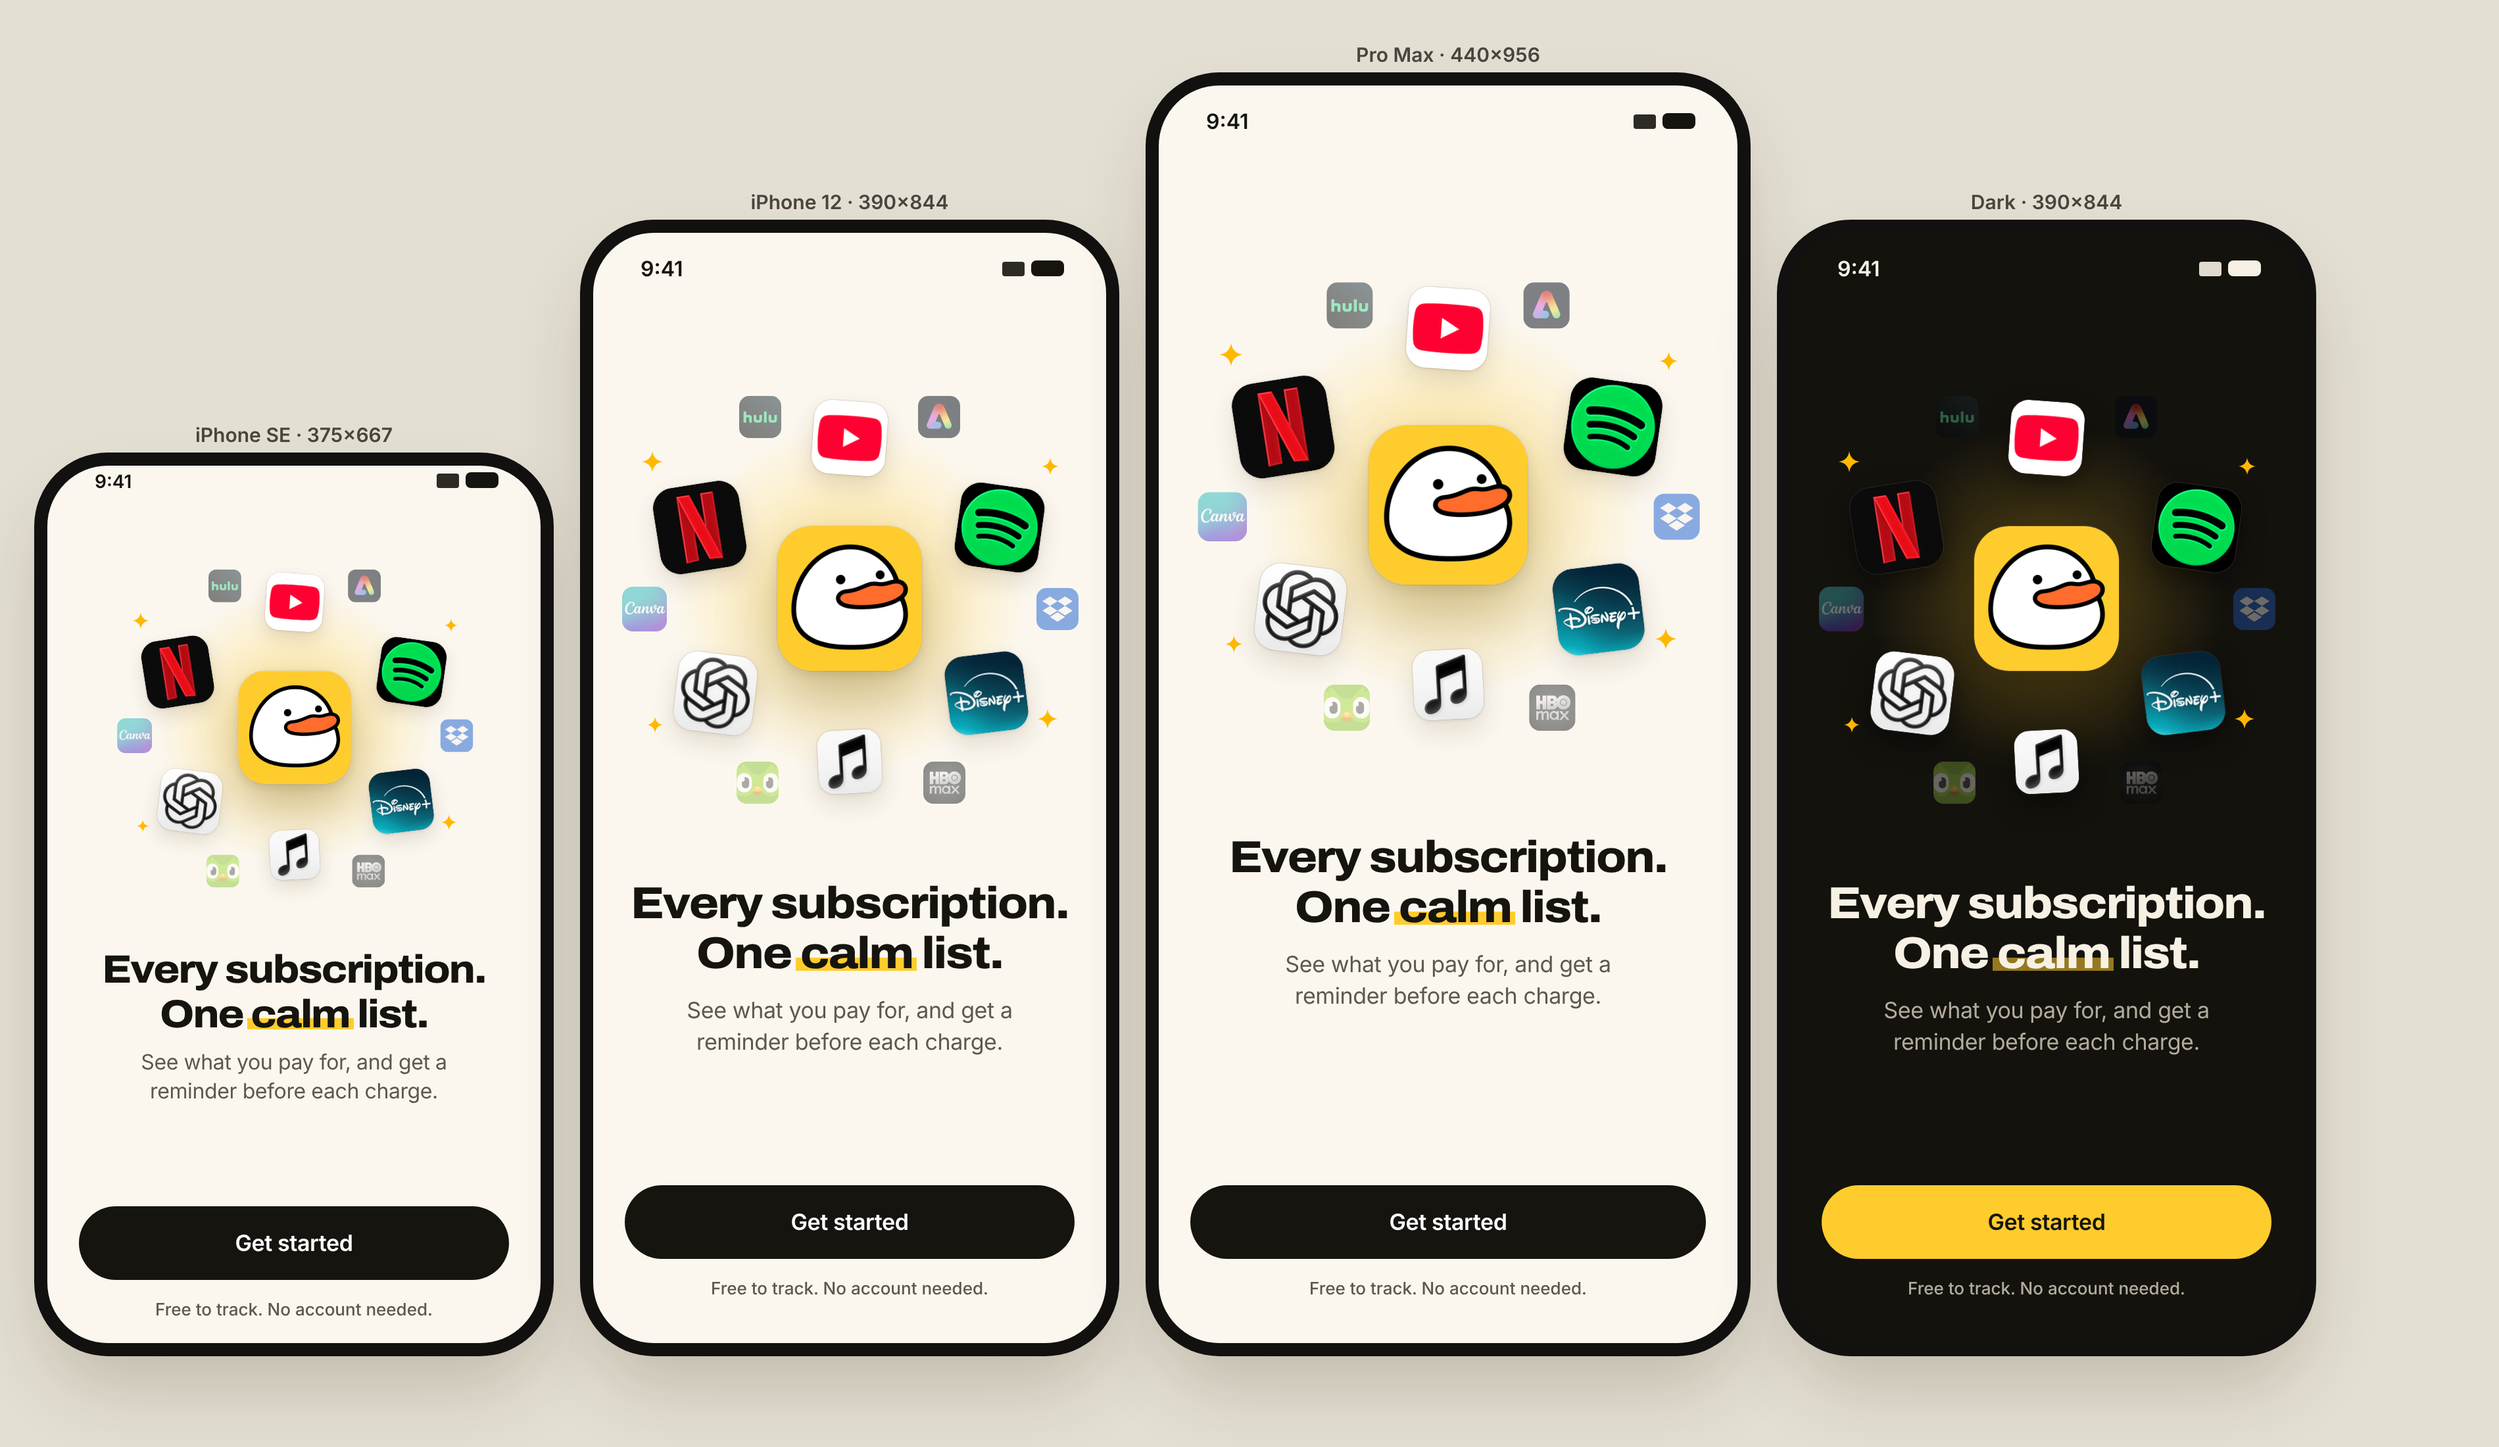
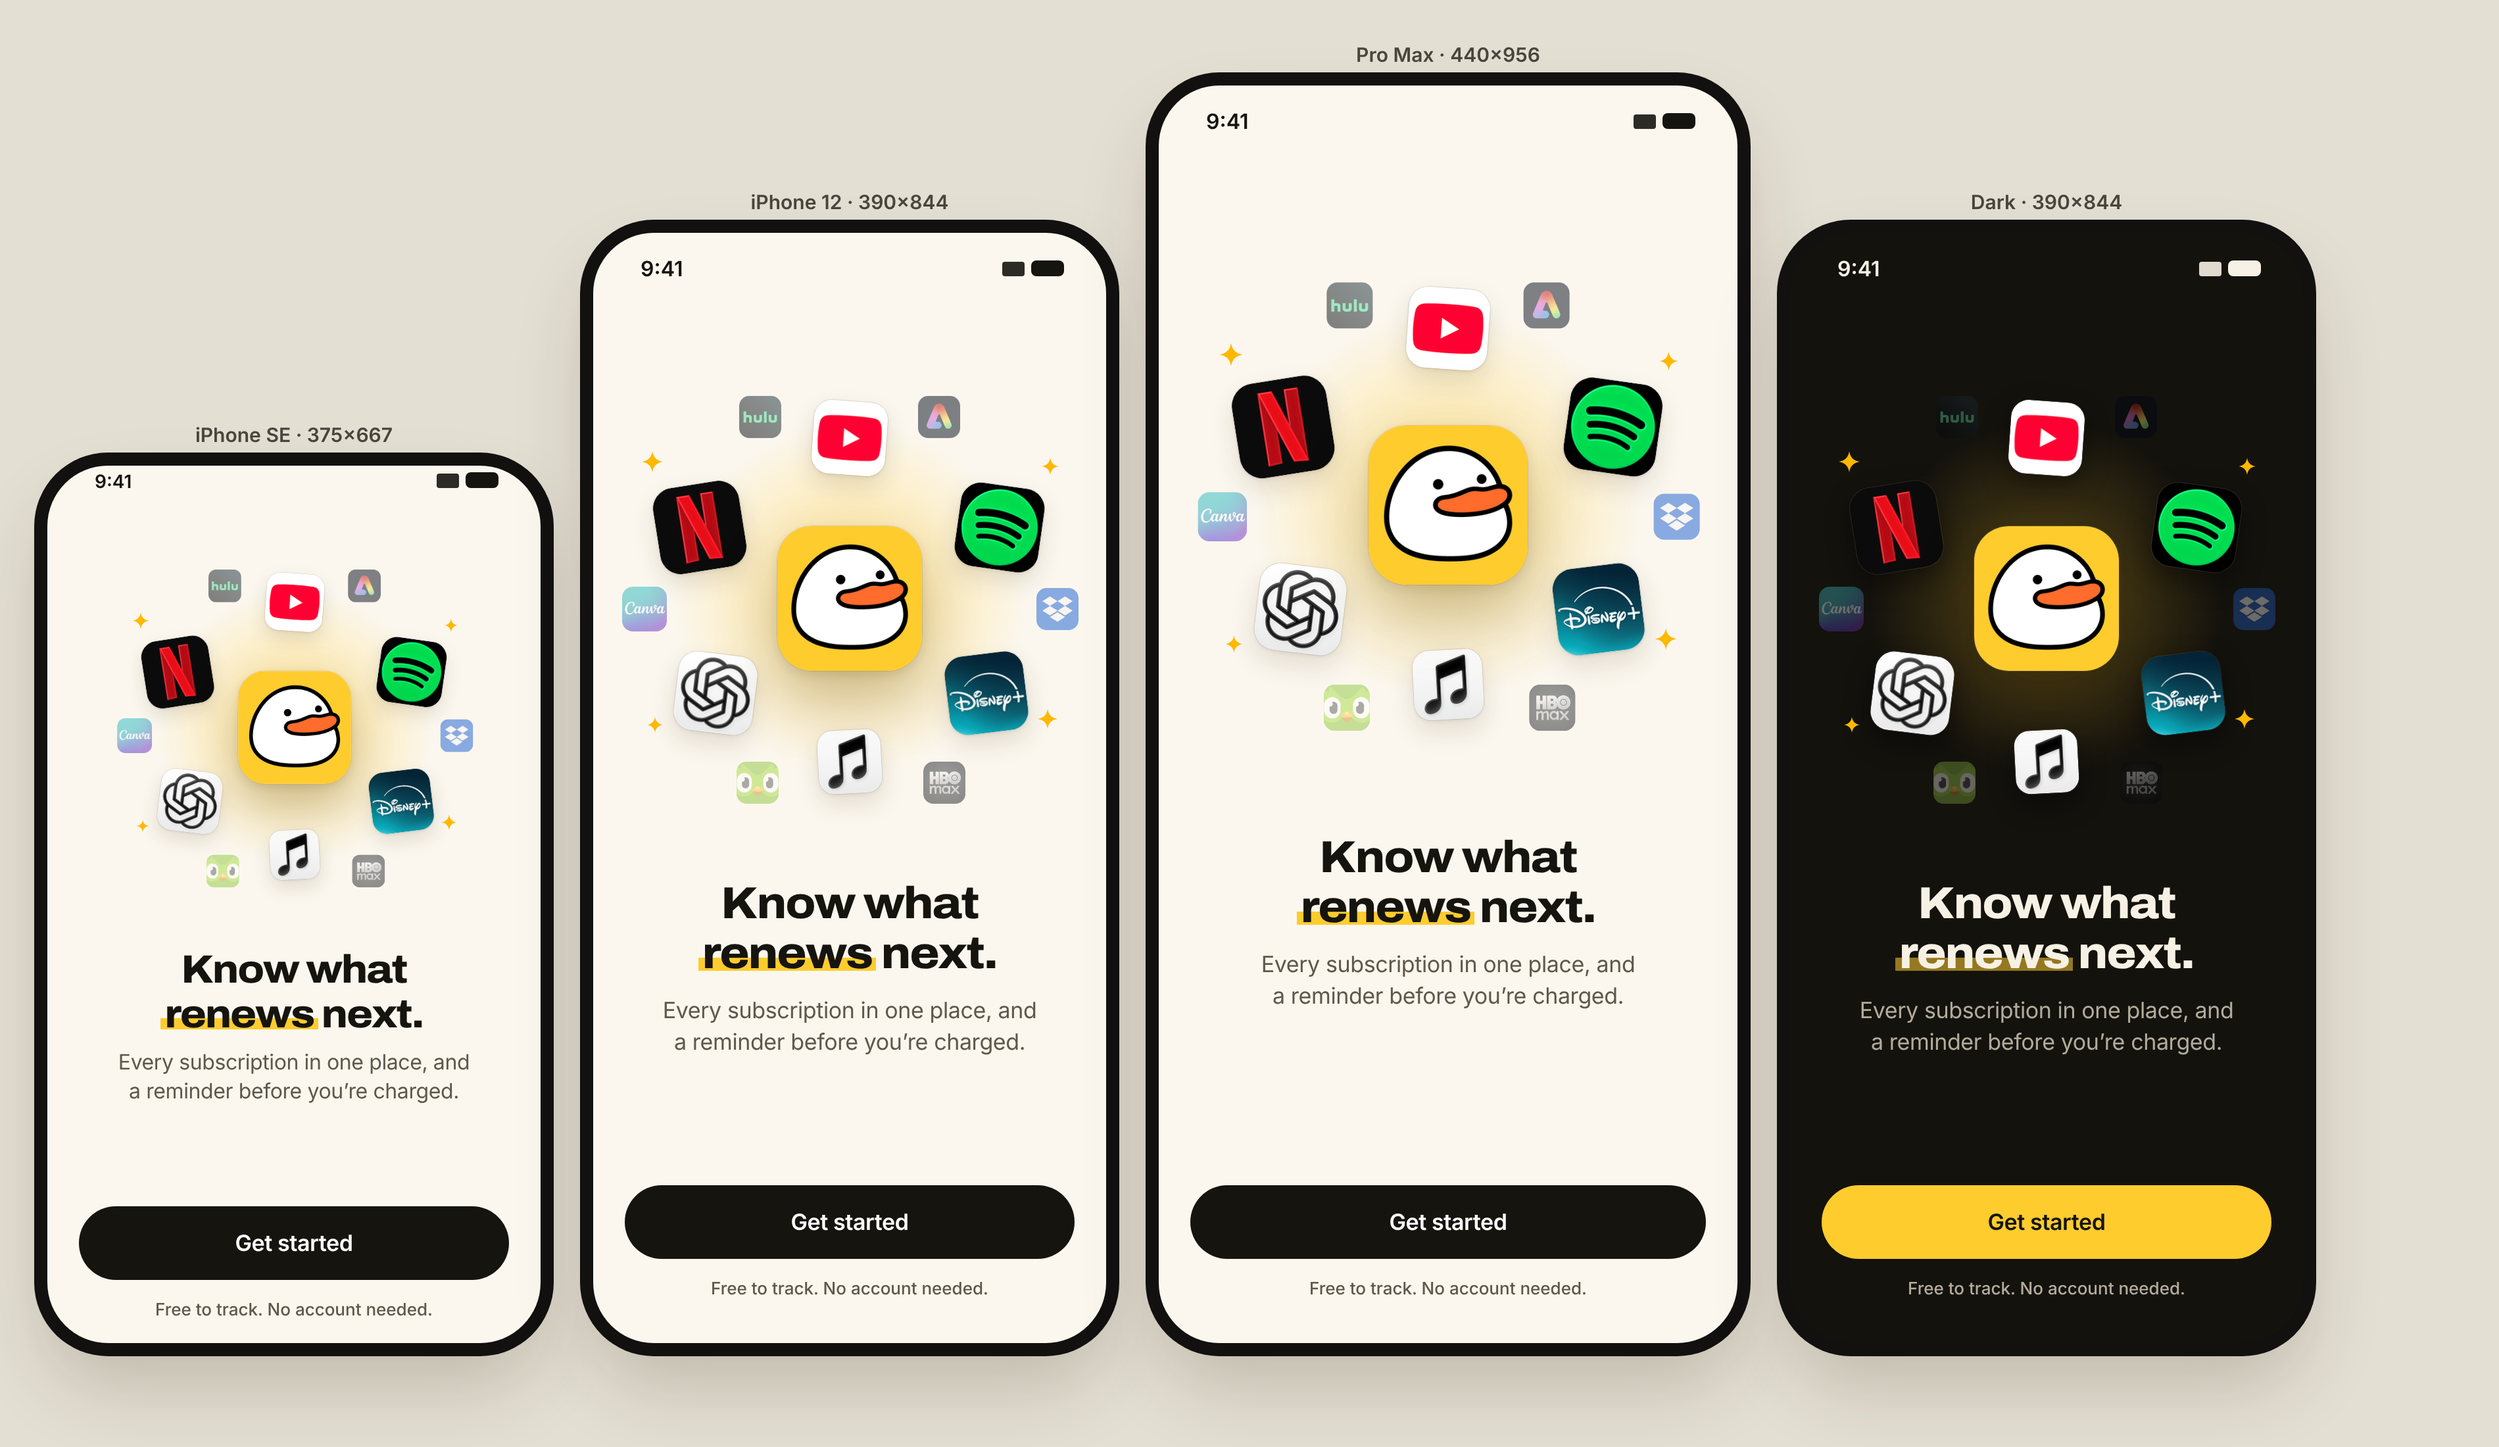
Design v27: welcome copy 'Know what renews next.'
Claude-Session: https://claude.ai/code/session_01Q8GFjWCZXwnj2nAcxjTkxh

diff --git a/design/v27/welcome.html b/design/v27/welcome.html
@@ -54,8 +54,8 @@ function phone(w,h,dark){
    <div class="grow" style="flex:.7"></div>
    <div class="stage" style="transform:scale(${scale});margin:${(scale-1)*160}px 0">${stage()}</div>
    <div class="grow" style="flex:.55"></div>
-   <div class="copy"><div class="h1" style="${small?'font-size:30px;line-height:34px':''}">Every subscription.<br>One <span class="hl">calm</span> list.</div>
-     <div class="sub" style="${small?'font-size:16px;line-height:22px;margin-top:8px':''}">See what you pay for, and get a<br>reminder before each charge.</div></div>
+   <div class="copy"><div class="h1" style="${small?'font-size:30px;line-height:34px':''}">Know what<br><span class="hl">renews</span> next.</div>
+     <div class="sub" style="${small?'font-size:16px;line-height:22px;margin-top:8px':''}">Every subscription in one place, and<br>a reminder before you&rsquo;re charged.</div></div>
    <div class="grow" style="flex:1"></div>
    <div class="cta">Get started</div>
    <div class="fine" style="margin:14px 0 ${bottom}px">Free to track. No account needed.</div></div>`;
